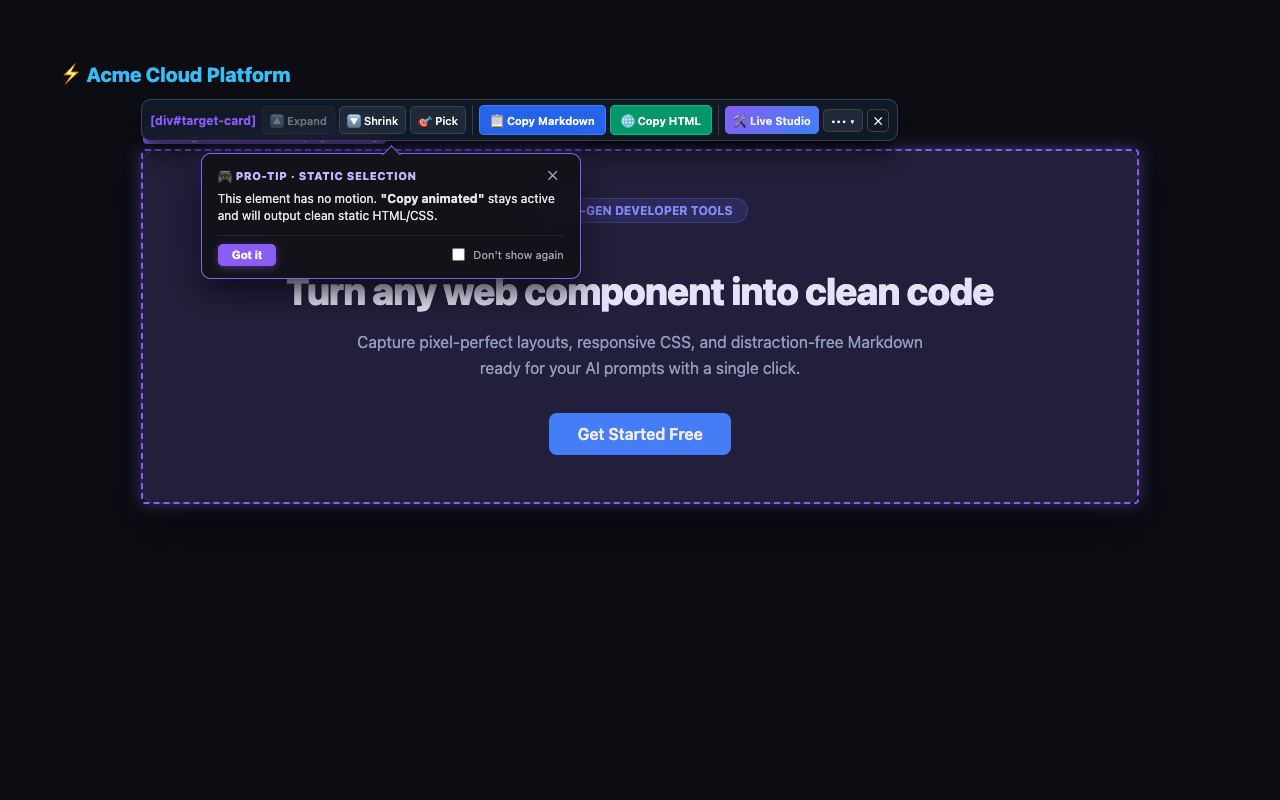
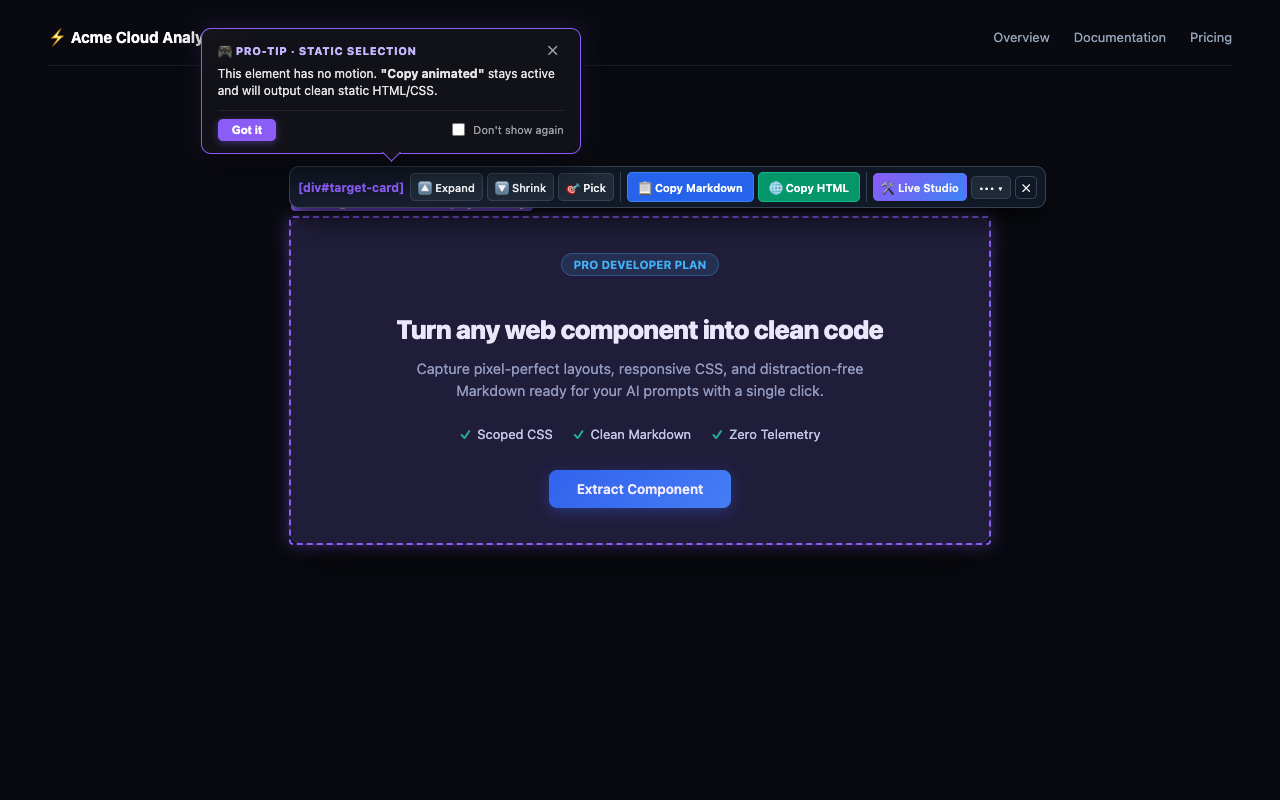
docs(readme): fix screenshot staging, remove overlay overlap, and neutralize comparison table

diff --git a/README.md b/README.md
@@ -19,7 +19,7 @@
 </p>
 
 <h3 align="center">
-  <a href="https://github.com/HiepLeHoaiNghia/pagesnap/releases/latest"><ins>Download PageSnap (Latest ZIP)</ins></a>
+  <a href="https://github.com/HiepLeHoaiNghia/pagesnap/releases/latest">⬇ Download PageSnap (Latest ZIP)</a>
 </h3>
 
 <p align="center">
@@ -37,15 +37,15 @@ AI coding tools like **Cursor**, **Claude Code**, and **v0** build stunning inte
 
 PageSnap sits directly in your browser. With **1 click**, it extracts precisely the target component with computed layout, scoped styles, design tokens, and clean Markdown—ready to paste straight into your AI prompts.
 
-| Capability | PageSnap (Free &amp; Open Source) | DivMagic / Xtractly ($35 - $60) | SingleFile / Web Clippers |
+| Capability | PageSnap | Paid Proprietary Tools ($30 - $60+) | Traditional Web Clippers |
 | :--- | :--- | :--- | :--- |
-| **Pricing** | **100% Free &amp; Open Source (MIT)** | Paid license ($30 - $60+) | Free / Freemium |
-| **Clean Markdown** | ✅ **Built-in** (via Mozilla Readability) | ❌ HTML only | ⚠ Whole page only |
-| **Scoped HTML + CSS** | ✅ **No global leaks** (`.ps-el-*`) | ✅ Scoped classes | ❌ Full page dump |
+| **License &amp; Pricing** | **100% Free &amp; Open Source (MIT)** | Paid license ($30 - $60+) | Free / Freemium |
+| **Clean AI Markdown** | ✅ **Built-in (Mozilla Readability)** | ❌ HTML only | ⚠ Whole page dump |
+| **Scoped HTML + CSS** | ✅ **Isolated (`.ps-el-*`)** | ✅ Scoped classes | ❌ Full page CSS |
 | **AI Design Prompt** | ✅ **Structured `AI-PROMPT.md`** | ❌ None | ❌ None |
-| **Privacy &amp; Telemetry**| ✅ **100% Local in-browser** | ⚠ Closed-source analytics | ⚠ Third-party servers |
-| **Network Hooks** | ✅ **Strictly passive** (Zero interference)| ⚠ Invasive injection | ⚠ Variable |
-| **3D / Canvas Extraction**| 🧪 **Experimental (BETA)** | ❌ Unsupported | ❌ Static canvas only |
+| **Privacy &amp; Telemetry** | ✅ **100% Local (Zero Telemetry)** | ⚠ Closed-source telemetry | ⚠ Cloud servers |
+| **Network Footprint** | ✅ **Strictly passive (Zero injection)** | ⚠ Active page modification | ⚠ Variable |
+| **Canvas &amp; 3D Tools** | 🧪 **Experimental (BETA)** | ❌ Unsupported | ❌ None |
 
 ---
 
